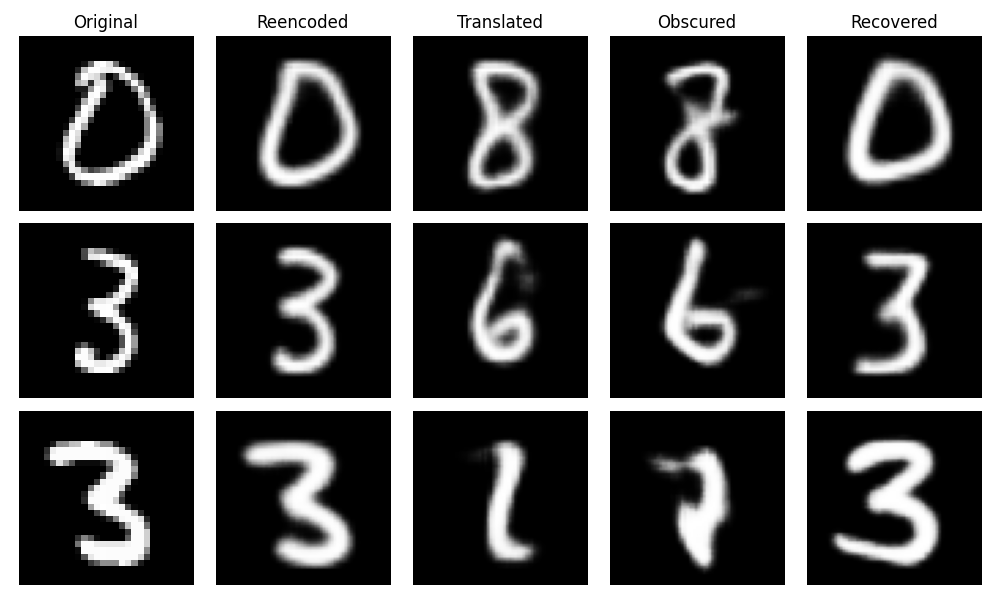
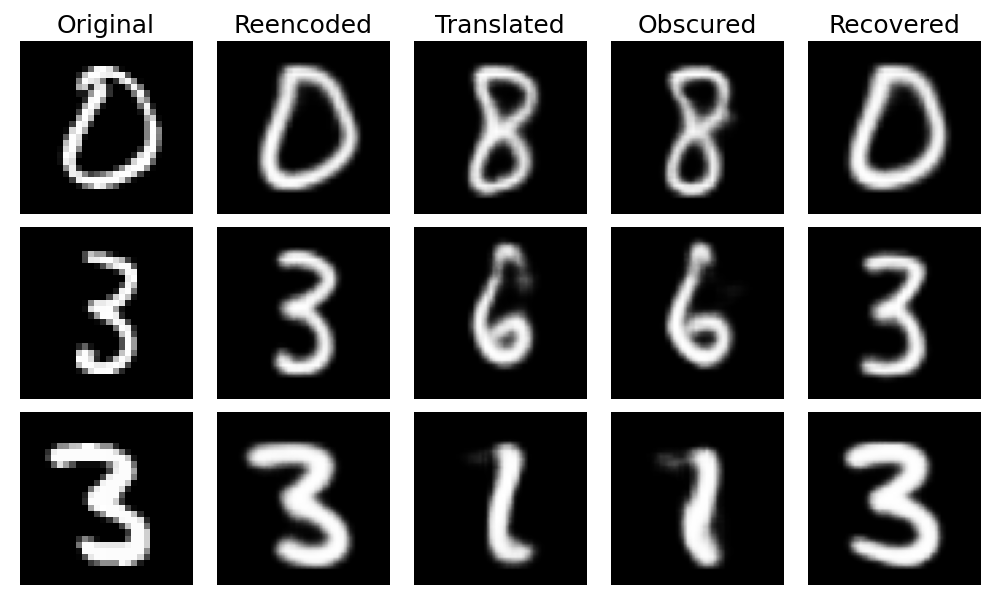
Inverse translation grid

diff --git a/Sources/code/transform/translation_grid.py b/Sources/code/transform/translation_grid.py
@@ -38,7 +38,7 @@ z_test = latent.encode(
     autoencoder,
     x=x_test[digit_indices],
     y=y_test[digit_indices],
-    n_times=3,
+    n_times=2,
     save_cache=False
 )
 
@@ -53,8 +53,6 @@ else: # BetaVAE
         save_cache=True
     )
 
-fig, axes = plt.subplots(10, 10, figsize=(20, 20))
-
 y_src = np.repeat(np.arange(10), 10)  # [0, 0, ..., 9, 9]
 y_dst = np.tile(np.arange(10), 10)  # [0, 1, ..., 9, 0, 1, ..., 9]
 
@@ -63,23 +61,73 @@ z_src = np.repeat(z_test, 10, axis=0)
 if autoencoder.decoder.requires_labels(): # CVAE
     z_dst = latent.style_class_transform(z_src, y_dst)
 else: # Beta-VAE
-    z_dst = latent.translate(z_src, y_src, y_dst, z_class_distributions)
+    z_dst = latent.translate(z_src, y_src, y_dst, z_class_distributions, use_std=False)
 
-x_decoded = autoencoder.decoder.predict(z_dst)
-x_decoded = tf.image.resize(x_decoded, (28, 28)).numpy() # todo pour le classifieur
+x_dst = autoencoder.decoder.predict(z_dst)
+_, _, z_invdst = autoencoder.encoder.predict(x_dst)
 
-guessed_classes, _, certainties = utils.classify(x_decoded, classifier)
+if autoencoder.decoder.requires_labels(): # CVAE
+    z_invsrc = latent.style_class_transform(z_invdst, y_src)
+else: # Beta-VAE
+    z_invsrc = latent.translate(z_invdst, y_dst, y_src, z_class_distributions, use_std=False)
 
-x_decoded = x_decoded.reshape(10, 10, 28, 28)
-guessed_classes = guessed_classes.reshape(10, 10)
-certainties = certainties.reshape(10, 10)
+x_invsrc = autoencoder.decoder.predict(z_invsrc)
 
+x_dst = utils.resize(x_dst, (28, 28)) # todo pour le classifieur
+x_invsrc = utils.resize(x_invsrc, (28, 28))
+
+guessed_classes_dst, _, certainties_dst = utils.classify(x_dst, classifier)
+guessed_classes_invsrc, _, certainties_invsrc = utils.classify(x_invsrc, classifier)
+
+x_dst = x_dst.reshape(10, 10, 28, 28)
+guessed_classes_dst = guessed_classes_dst.reshape(10, 10)
+certainties_dst = certainties_dst.reshape(10, 10)
+
+x_invsrc = x_invsrc.reshape(10, 10, 28, 28)
+guessed_classes_invsrc = guessed_classes_invsrc.reshape(10, 10)
+certainties_invsrc = certainties_invsrc.reshape(10, 10)
+
+fig, axes = plt.subplots(10, 11, figsize=(22, 20))
 for src_class in range(10):
+    ax = axes[src_class, 0]
+    ax.imshow(x_test[digit_indices][src_class], cmap="gray")
+    ax.axis('off')
+
     for dst_class in range(10):
-        ax = axes[src_class, dst_class]
-        ax.imshow(x_decoded[src_class, dst_class], cmap="gray")
-        ax.text(0.5, -0.15, f"({guessed_classes[src_class, dst_class]}, {certainties[src_class, dst_class]:.3f})", fontsize=14, color="blue", ha="center", transform=ax.transAxes)
+        ax = axes[src_class, dst_class + 1]
+        ax.imshow(x_dst[src_class, dst_class], cmap="gray")
+        ax.text(0.5, -0.15, f"({guessed_classes_dst[src_class, dst_class]}, {certainties_dst[src_class, dst_class]:.3f})", fontsize=14, color="blue", ha="center", transform=ax.transAxes)
         ax.axis('off')
 
 plt.tight_layout()
+fig.canvas.draw()
+
+col0_right = axes[0, 0].get_position().x1
+col1_left = axes[0, 1].get_position().x0
+line_x = (col0_right + col1_left) / 2
+
+fig.add_artist(plt.Line2D([line_x, line_x], [0, 1], color='red', linewidth=4, transform=fig.transFigure))
 plt.savefig(cache.RESULTS_FOLDER / "mnist-translation-grid.png")
+
+
+fig, axes = plt.subplots(10, 11, figsize=(22, 20))
+for src_class in range(10):
+    ax = axes[src_class, 0]
+    ax.imshow(x_test[digit_indices][src_class], cmap="gray")
+    ax.axis('off')
+
+    for dst_class in range(10):
+        ax = axes[src_class, dst_class + 1]
+        ax.imshow(x_invsrc[src_class, dst_class], cmap="gray")
+        ax.text(0.5, -0.15, f"({guessed_classes_invsrc[src_class, dst_class]}, {certainties_invsrc[src_class, dst_class]:.3f})", fontsize=14, color="blue", ha="center", transform=ax.transAxes)
+        ax.axis('off')
+
+plt.tight_layout()
+fig.canvas.draw()
+
+col0_right = axes[0, 0].get_position().x1
+col1_left = axes[0, 1].get_position().x0
+line_x = (col0_right + col1_left) / 2
+
+fig.add_artist(plt.Line2D([line_x, line_x], [0, 1], color='red', linewidth=4, transform=fig.transFigure))
+plt.savefig(cache.RESULTS_FOLDER / "mnist-inverse-translation-grid.png")

diff --git a/Sources/code/obscuration/obscuration_examples.py b/Sources/code/obscuration/obscuration_examples.py
@@ -101,11 +101,11 @@ for i in range(digit_indices.shape[0]):
     axes[i, 4].imshow(x_invsrc[i], cmap="gray")
     axes[i, 4].axis('off')
 
-axes[0, 0].set_title("Original")
-axes[0, 1].set_title("Reencoded")
-axes[0, 2].set_title("Translated")
-axes[0, 3].set_title("Obscured")
-axes[0, 4].set_title("Recovered")
+axes[0, 0].set_title("Original", fontsize=18)
+axes[0, 1].set_title("Reencoded", fontsize=18)
+axes[0, 2].set_title("Translated", fontsize=18)
+axes[0, 3].set_title("Obscured", fontsize=18)
+axes[0, 4].set_title("Recovered", fontsize=18)
     
 plt.tight_layout()
 plt.savefig(cache.RESULTS_FOLDER / f"mnist-obscuration-translation-examples-{key}.png")

diff --git a/Sources/code/transform/transform_grid.py b/Sources/code/transform/transform_grid.py
@@ -37,7 +37,7 @@ z_test = latent.encode(
     autoencoder,
     x=x_test[digit_indices],
     y=y_test[digit_indices],
-    n_times=3,
+    n_times=2,
     save_cache=False
 )
 
@@ -82,4 +82,11 @@ for src_class in range(10):
         ax.axis('off')
 
 plt.tight_layout()
+fig.canvas.draw()
+
+col0_right = axes[0, 0].get_position().x1
+col1_left = axes[0, 1].get_position().x0
+line_x = (col0_right + col1_left) / 2
+
+fig.add_artist(plt.Line2D([line_x, line_x], [0, 1], color='red', linewidth=4, transform=fig.transFigure))
 plt.savefig(cache.RESULTS_FOLDER / "mnist-transform-grid.png")
